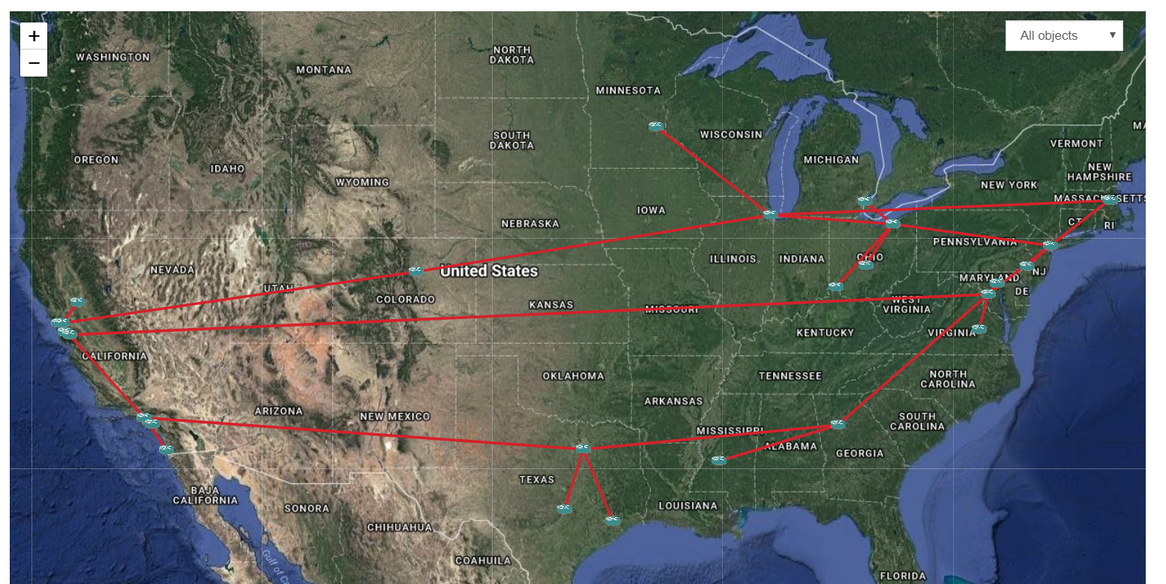
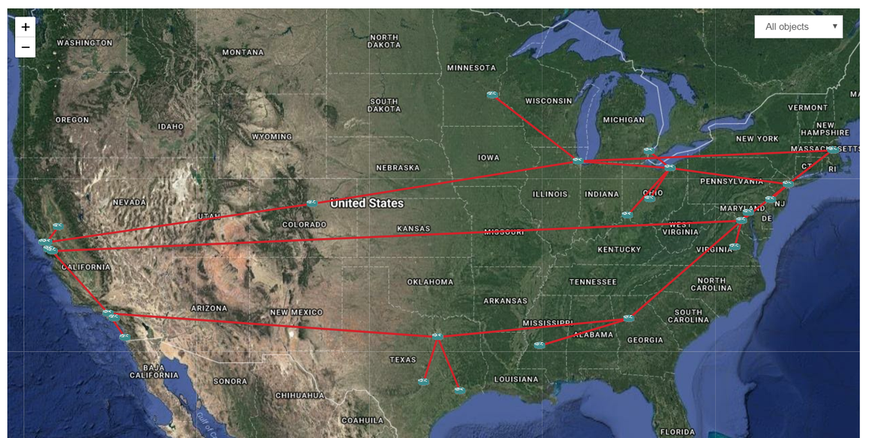
update readme p11

Changed region(s): [[0.4011, 0.4452, 0.4629, 0.4749], [0.8023, 0.5639, 0.8331, 0.5936], [0.7714, 0.7123, 0.8023, 0.742]]

diff --git a/README.md b/README.md
@@ -37,7 +37,7 @@ You can double-click on a node to display its properties, or start a Web SSH ses
 
 Geographical View                             |  Logical View
 :--------------------------------------------:|:-------------------------------:
-![Geographical](readme/geographical2.png)      |  ![Logical](readme/logical.png)
+![Geographical](readme/geographical_view.png) |  ![Logical](readme/logical_view.png)
 
 Try it out yourself: _[Geographical view](http://afourmy.pythonanywhere.com/views/geographical_view)_, _[Logical view](http://afourmy.pythonanywhere.com/views/logical_view)_
 
